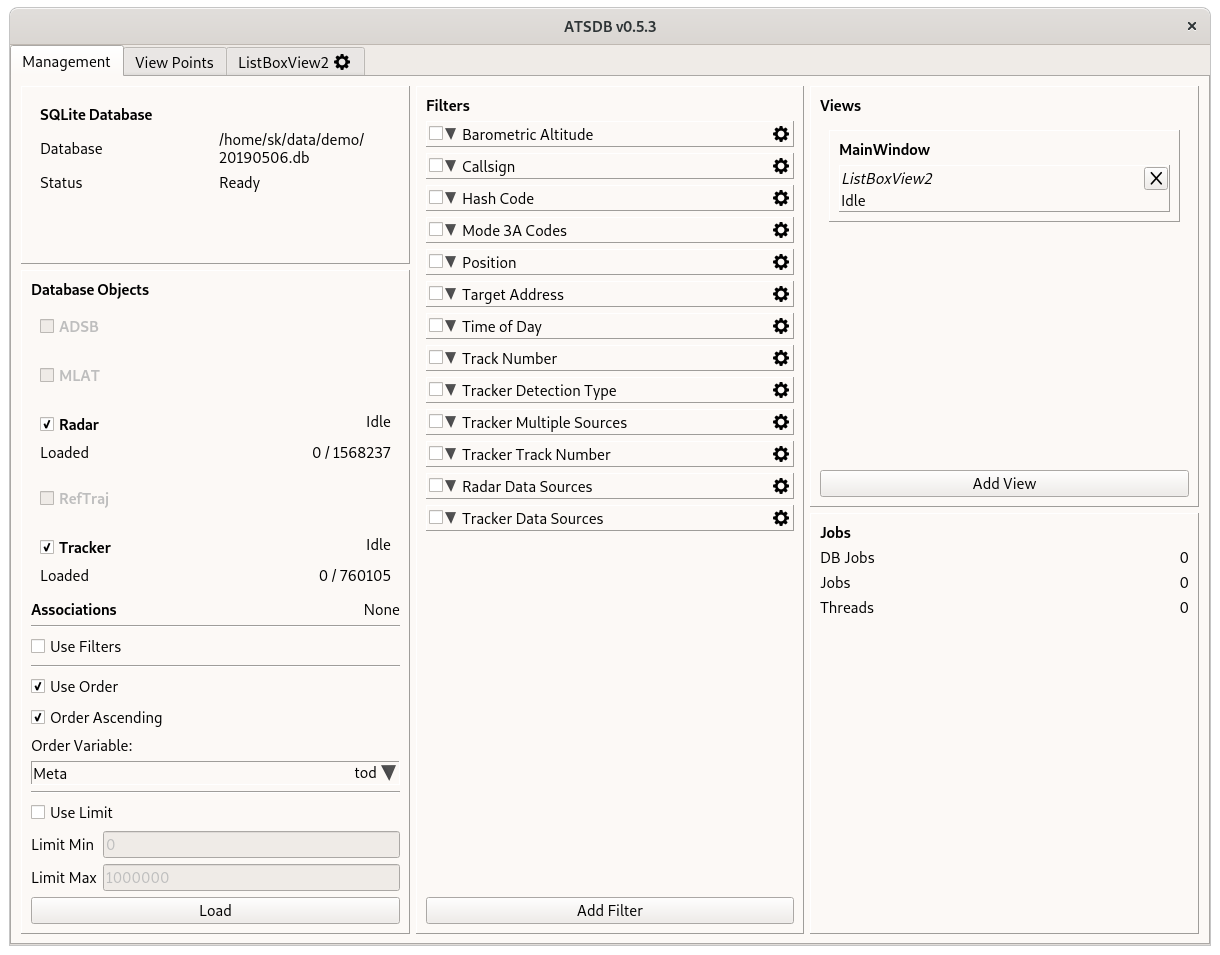
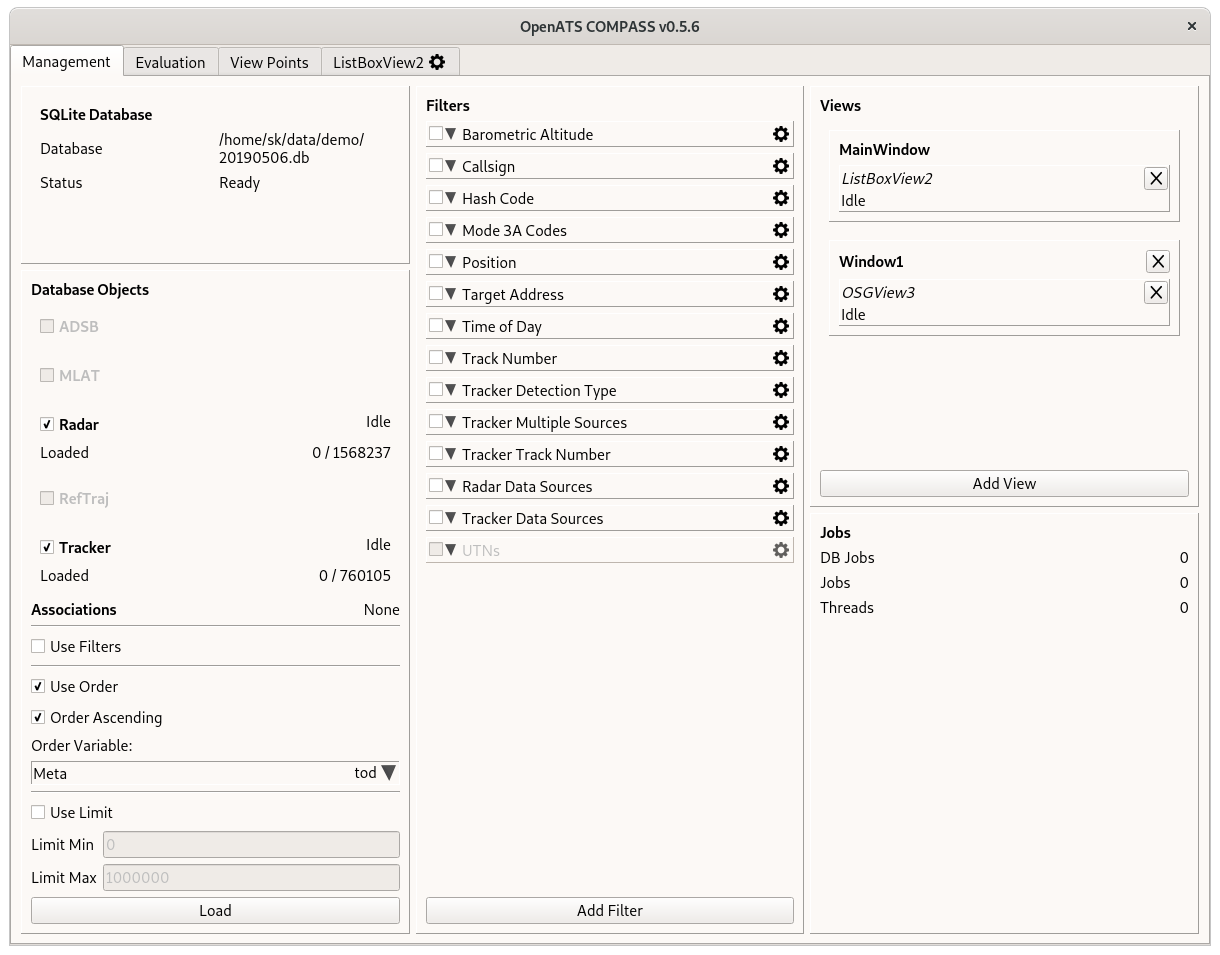
doc update

diff --git a/doc/user_manual/eval/evaluation.tex b/doc/user_manual/eval/evaluation.tex
@@ -1,11 +1,311 @@
 \chapter{Evaluation}
 \label{sec:eval} 
 
-\section{Confguration}
+\begin{figure}[H]
+    \hspace*{-2.5cm}
+    \includegraphics[width=19cm]{../screenshots/evaluation.png}
+  \caption{Evaluation tab}
+\end{figure}
+
+The 'Evaluation' tab allows adapting/defining requirement-based standards  and compliance assessment of said standards. \\
+
+\section{Pre-Requisites \& Limitations}
+\label{sec:eval_prereq} 
+
+\begin{itemize}  
+\item Target report associations must be set (using \nameref{sec:task_associate_tr})
+\item At least 1 sector has to be defined (using \nameref{sec:task_manage_sectors})
+\item Usable reference data must exist
+\item Usable test data must exist
+\end{itemize}
+\ \\
+
+While it is possible to manually remove single targets from the evaluation, the usage of correct reference data is paramount for the significance of the evaluation results. \\
+
+\includegraphics[width=0.5cm]{../../data/icons/hint.png} \textbf{Please note that the evaluation feature is currently severly limited and under heavy development, and should not be used as a sole basis for decision making - especially not without manually verifying the evaluation results.} \\
+
+There will be improvements in the next releases, and further verification of the results by the author and other users.
+
+\subsection{Target Report Associations}
+
+Since the task only makes use of the Mode S address, non-Mode S data is not evaluated and may even show up as gaps/misses in detection.
+
+\subsection{Sector Altitude Filtering}
+
+If sectors with altitude limits are used, please be aware that target reports without a Mode C code can not be filtered by the set limit. Therefore such target reports "show up" in all sectors (as long as inside the defined polygons). \\
+
+The 'inside-sector' is always performed on the reference data only, therefore it is of importance to only use reference data with existing Mode C code data.
+
+\subsection{Reference Data}
+
+The assumption used in the tool is that the reference data is always correct. Therefore, sub-optimal reference data will show up attributed to errors in the test data. \\
+
+To give a few examples what this could mean:
+\begin{itemize}  
+\item Missing target data in reference: This will remove the test data from evaluation for the time-period of the missing reference data
+\item Wrong position in reference: This will cause wrong 'inside sector' check results, and/or cause wrong horizontal position accuracy results
+\item Wrong/missing Mode C code in reference: This will cause wrong 'inside sector' check results and might remove the test data from evaluation or associate the results to the wrong sector
+\item Wrong/missing identification in reference: This will cause wrong results in identification requirements
+\end{itemize}
+\ \\
+
+\section{Overview}
+\label{sec:eval_overview} 
+
+\begin{figure}[H]
+  \hspace*{-2cm}
+    \includegraphics[width=18cm,frame]{../screenshots/eval_overview.png}
+  \caption{Evaluation overview}
+\end{figure}
+
+At the top, 4 tabs exist:
+\begin{itemize}  
+\item Main: Main configuration
+\item Targets: Table of existing targets (filled after data was loaded)
+\item Standard: Definition of standards, selection of current standard, configuration of requirements to be checked
+\item Results: Evaluation results (created after data was evaluated)
+\end{itemize}
+\ \\
+
+Below 3 buttons exist:
+\begin{itemize}  
+\item Load Data: Loads the reference/test data
+\item Evaluate: Runs the evaluation of the current standard (available after data was loaded)
+\item Generate Report: Generates a report PDF (available after data was evaluated)
+\end{itemize}
+\ \\
+
+\section{Configuration}
 \label{sec:eval_config} 
+
+\subsection{Main Tab}
+
+\begin{figure}[H]
+  \hspace*{-2cm}
+    \includegraphics[width=18cm,frame]{../screenshots/eval_main.png}
+  \caption{Evaluation Main tab}
+\end{figure}
+
+In the main tab, the main configuration settings can be set. \\
+
+\subsubsection{Data Selection}
+
+At the top, the 'Data Selection' can be performed, by selecting:
+\begin{itemize}  
+\item Reference Data:
+\begin{itemize}  
+\item DBObject: Any DBObject existing in the database
+\item Data source checkboxes: Which data sources to use
+\end{itemize}
+\item Test Data:
+\begin{itemize}  
+\item DBObject: Any DBObject existing in the database
+\item Data source checkboxes: Which data sources to use
+\end{itemize}
+\end{itemize}
+\ \\
+
+As noted before, usage of appropriate reference data is of paramount importance. \\
+
+Since 'any' type of data can be selected for evaluation, this allows for the following use-cases:
+\begin{itemize}  
+\item Tracker as reference, Sensor as test data: Evaluation of sensor
+\item Tracker as reference, Tracker as test data: Evaluation/comparison of different trackers/tracker runs
+\end{itemize}
+\ \\
+
+Of course it is also possible to use e.g. an imported GPS trail as reference (see \nameref{sec:task_import_gps}), although this is currently not tested for lack of test data. If you might be able to provide such test data, please contact the author. \\
+
+\subsubsection{Standard}
+In the center, using the 'Standard' drop-down menu, the current standard can be selected. To create/configure the standard please use the 'Standard' tab.
+
+\subsubsection{Sector Layer/Requirement Mapping}
+
+Below that, the 'Sector Layers: Requirement Groups Usage' allows to define which requirements should be verified for which sector layer. \\
+
+On the left, all existing sector layers are listed, in the show example:
+\begin{itemize}  
+\item All: DOI without altitude limitation
+\item Lower: Same DOI with altitude limitation, i.e. everything below a certain flight level
+\item Upper: Same DOI with altitude limitation, i.e. everything above a certain flight level
+\end{itemize}
+\ \\
+
+For each sector layer, the requirement groups (defined in the Standard tab) can be active/disabled. In the shown example, the existing requirement group 'Mandatory' is active in all 3 sector layers.
+
+\subsubsection{Other}
+
+The 'Generate Per-Target-Report Requirement Details in Results' checkbox allows to toggle if the per-target-report details should be generated in the evaluation results. \\
+
+If active, this allows for per-target-report inspection of the results, but uses more system memory and makes generation of the report PDF infeasible (10000+ pages). It is recommended to disable generation of these details for large evaluations (e.g. 10+ million target reports, depending on available system memory) or when a report PDF should be generated. \\
+
+Please note that it is possible to first generate the per-target-report details, inspect the results, de-activate the details again, re-run the evaluation and then generate the report PDF.
+
+\subsection{Targets Tab}
+
+\begin{figure}[H]
+  \hspace*{-2cm}
+    \includegraphics[width=18cm,frame]{../screenshots/eval_targets_empty.png}
+  \caption{Evaluation Targets tab}
+\end{figure}
+
+Before the data is loaded, the table is empty. Each target (defined by the UTN) is shown in a dedicated row. \\
+
+The following columns exist:
+
+\begin{itemize}  
+\item Use: Checkbox defining if the target should be used in the evaluation
+\item UTN: Unique Target Number
+\item Begin: First timestamp of UTN
+\item End: Last timestamp of UTN
+\item \#All: Sum number of target reports
+\item \#Ref: Number of target reports in reference data
+\item \#Tst: Number of target reports in test data
+\item Callsign: Target identification(s)
+\item TA: Target address (hexadecimal)
+\item M3/A: Mode 3/A code(s) (octal)
+\item MC Min: Mode C code minimum [ft]
+\item MC Max: Mode C code maximum [ft]
+\end{itemize}
+\ \\
+
+Unless otherwise specified, the column content reflects the values from both reference and test data.
+
+\subsection{Standard Tab}
+
+\begin{figure}[H]
+  \hspace*{-2cm}
+    \includegraphics[width=18cm,frame]{../screenshots/eval_standard.png}
+  \caption{Evaluation Standard tab}
+\end{figure}
+
+In the Standard tab, at the top the current standard can be selected. \\
+
+Below, the following buttons exist:
+\begin{itemize}  
+\item Add: Add a new standard with a unique name
+\item Rename: Rename the current standard (currently disabled)
+\item Copy: Copy the current standart to a new one (currently disabled)
+\item Remove: Delete current standard
+\end{itemize}
+\ \\
+
+\subsubsection{Current Standard}
+
+Below that, the current standard is shown. On the left side, a tree-view exists showing:
+\begin{itemize}  
+\item Standard name
+\begin{itemize}  
+\item Requirement Group(s)
+\begin{itemize}  
+\item Requirement(s)
+\end{itemize}
+\end{itemize}
+\end{itemize}
+\ \\
+
+When clicking on the standard name, a menu is shown allowing adding new requirement groups ('Add Group'). \\
+
+When clicking on a requirement group, a menu is shown allowing the following functions:
+\begin{itemize}  
+\item Delete Group: Delete the clicked requirement group
+\item Add Requirement:
+\begin{itemize}  
+\item Detection
+\item Identification
+\item Position
+\end{itemize}
+\end{itemize}
+\ \\
+
+If a requirement is clicked, it's configuration widget is shown on the right hand side. \\
+
+Each requirement has the following common attributes:
+\begin{itemize}  
+\item Name: Name of the requirement
+\item Short Name: Abbreviated name of the requirement
+\end{itemize}
+\ \\
+
+\subsubsection{Detection Requirement}
+
+\begin{itemize}  
+\item Update Interval [s]: Update interval of the test data
+\item Maximum Reference Time Difference [s]: Maximum time delta to closest reference target report
+\item Minimum Probability [1]: Minimum probability of detection
+\item Use Miss Tolerance: Checkbox if miss tolerance should be used
+\item Miss Tolerance [s]: Acceptable time delta for miss detection
+\end{itemize}
+\ \\
+
+Please note that the exact requirement calculation method is quite complex and will be added at a later point. \\
+
+As a summary, the reference is used to calculate the number of expected update intervals inside the sector layer (EUI). Then, for the test data, if the reference exists at the time, time differences between target reports are checked and the number of misses/gaps are calculated as number of missed update intervals (MUI). \\
+
+The ratio of MUI and EUI gives the probability of missed update interval, the counter-probability gives the Probability of Detection (PD). The PD must be higher than the defined 'Minimum Probability' for the requirement to pass.
+
+\subsubsection{Identification Requirement}
+
+\begin{itemize}  
+\item Maximum Reference Time Difference [s]: Maximum time delta to closest reference target report
+\item Minimum Probability [1]: Minimum probability of detection
+\end{itemize}
+\ \\
+
+Please note that the exact requirement calculation method is quite complex and will be added at a later point. \\
+
+As a summary, the reference is used to check each target report's Mode S Target Identification (TI). A TI is incorrect if set in both reference and test data and different, resulting in the number of false TIs (\#FID) and correct TIs (\#CID). \\
+
+The ratio of \#CID and \#FID+\#CID gives the Probability of Correct Identification (PID). The PID must be higher than the defined 'Minimum Probability' for the requirement to pass.
+
+\subsubsection{Position Requirement}
+
+\begin{itemize}  
+\item Maximum Reference Time Difference [s]: Maximum time delta to closest reference target report
+\item Maximum Distance [m]: Maximum allowed distance from test target report to reference
+\item Minimum Probability [1]: Minimum probability of detection
+\end{itemize}
+\ \\
+
+Please note that the exact requirement calculation method is quite complex and will be added at a later point. \\
+
+As a summary, the reference is used to check each test target report's position. The position is incorrect if the reference position exists and the distance (to the reference position at the same time as the test target report, using linear interpolation) is larger than the defined threshold. This results in the number of incorrect positions (\#PNOK) and correct positions (\#POK). \\
+
+The ratio of \#POK and \#PNOK+\#POK gives the Probability of Acceptable Position (POK). The POK must be higher than the defined 'Minimum Probability' for the requirement to pass.
+
+\subsection{Results Tab}
+
+\begin{figure}[H]
+  \hspace*{-2cm}
+    \includegraphics[width=18cm,frame]{../screenshots/eval_results_empty.png}
+  \caption{Evaluation Results tab}
+\end{figure}
+
 
 \section{Running}
 \label{sec:eval_run} 
+
+loading
+
+\begin{figure}[H]
+  \centering 
+    \includegraphics[width=8cm]{../screenshots/eval_post.png}
+  \caption{Evaluation: Post-processing after loading}
+\end{figure}
+
+\begin{figure}[H]
+  \hspace*{-2cm}
+    \includegraphics[width=18cm,frame]{../screenshots/eval_targets.png}
+  \caption{Evaluation Targets tab after loading}
+\end{figure}
+
+eval
+
+\begin{figure}[H]
+  \centering 
+    \includegraphics[width=10cm]{../screenshots/eval_eval_status.png}
+  \caption{Evaluation: Running evaluation status}
+\end{figure}
 
 \section{Inspection \& Analysis}
 \label{sec:eval_inspect} 

diff --git a/doc/user_manual/manage/management_overview.tex b/doc/user_manual/manage/management_overview.tex
@@ -7,9 +7,11 @@
   \caption{Management window}
 \end{figure}
 
-In the uppermost part, the current tab can be selected. In addition to the 'Management' and 'View Points' tabs, views can be added to main window, per default a ListBox view exists. \\
+In the uppermost part, the current tab can be selected. In addition to the 'Management', 'Evaluation' and 'View Points' tabs, views can be added to main window, per default a ListBox view exists. \\
 
 The 'Management' tab shows general database information, a list of database objects with loading functions, a filter system and so on. \\
+
+The 'Evaluation' tab allows adapting/defining requirement-based standards  and compliance assessment of said standards. For more information please refer to \nameref{sec:eval}. \\
 
 The 'View Points' tab shows view points and allows for associated functions. For more information please refer to \nameref{sec:view_points}.
 

diff --git a/doc/user_manual/manage/management_filtering.tex b/doc/user_manual/manage/management_filtering.tex
@@ -153,6 +153,18 @@ Multiple of these filters can exist, depending on which DBObjects exist in the d
 
 When active, each of these filters forces loading of data only from the selected data sources. \\
 
+\subsection{UTN Filter}
+
+\begin{figure}[H]
+  \center
+    \includegraphics[width=8cm,frame]{../screenshots/filter_utn.png}
+  \caption{UTN filter}
+\end{figure}
+
+This filter is only available if target report associations have been generated (see \nameref{sec:task_associate_tr}). \\
+
+When active, this filter forces loading of data with the given unique target numbers (UTNs), so it is possible to give multiple values (separated by commas). E.g. '1' is possible, or '1,2,3'. Target reports without an associated UTN will not be loaded. \\
+
 \subsection{Adding a New Filter}
 When clicking the 'Add filter' button, a dialog is opened.
 
